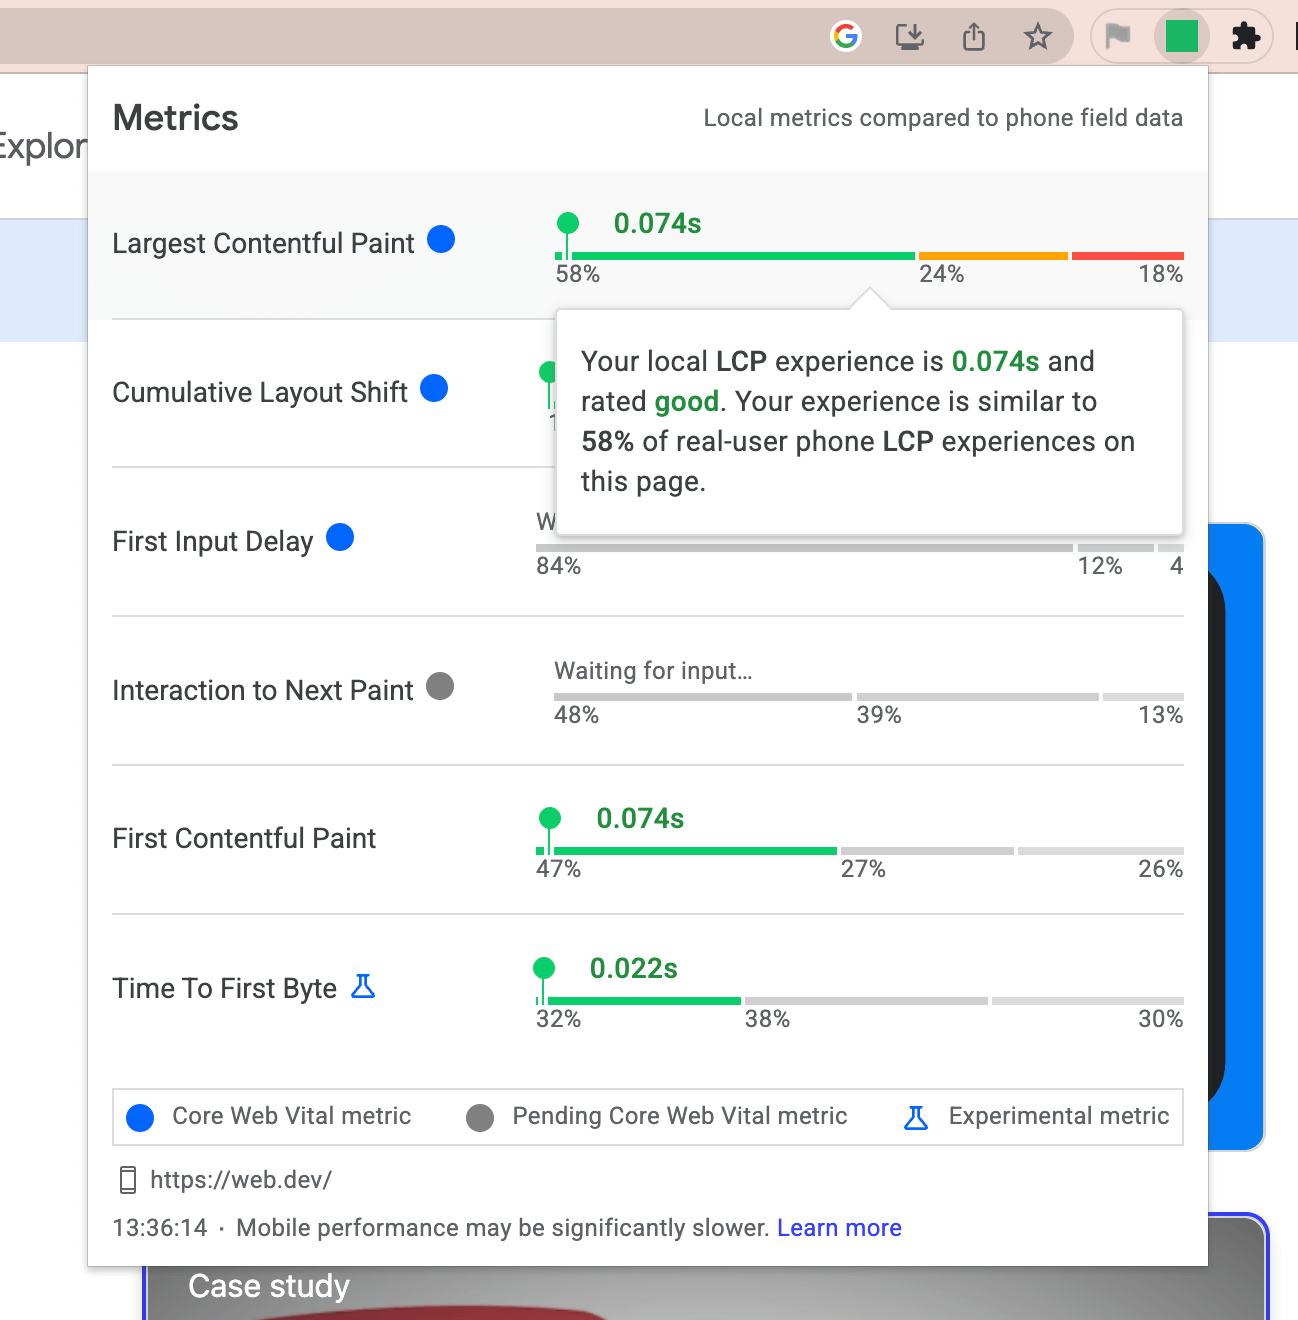
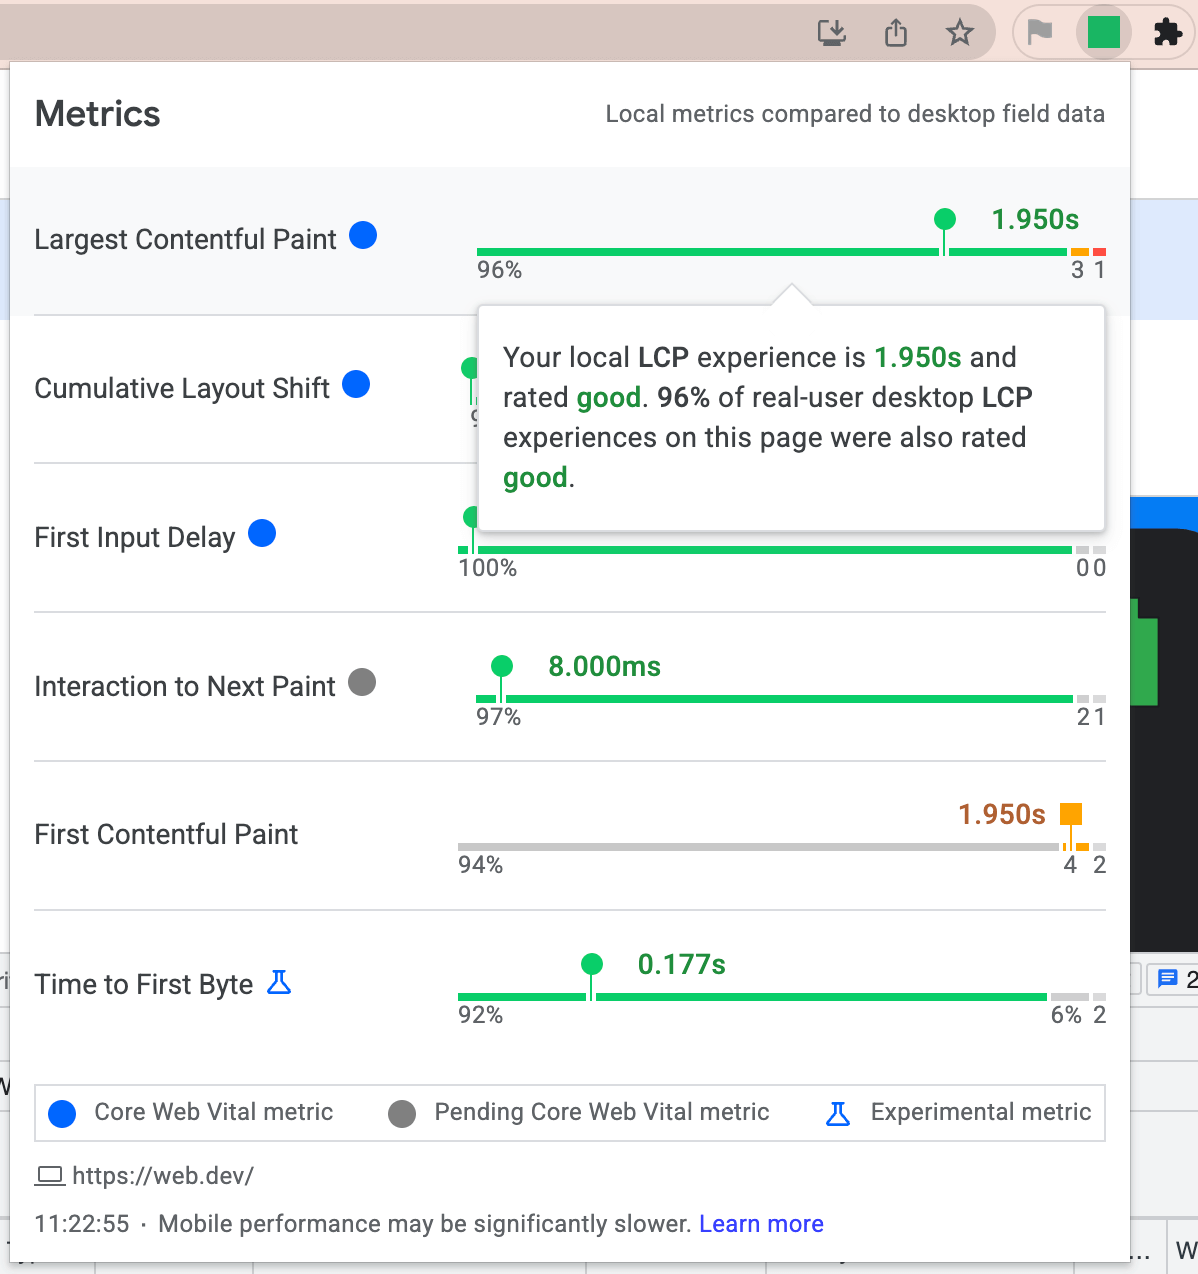
Improved CrUX Tooltip message (#134)
* Improved CrUX Tooltip message

* Retake screenshots

diff --git a/src/browser_action/popup.js b/src/browser_action/popup.js
@@ -132,7 +132,7 @@ class Popup {
       const assessmentIndex = metric.getAssessmentIndex();
       const density = metric.getDensity(assessmentIndex, 0);
       const scope = CrUX.isOriginFallback(fieldData) ? 'origin' : 'page';
-      text += ` Your experience is similar to <strong>${density}</strong> of <span class="nowrap">real-user</span> ${formFactor.toLowerCase()} <strong>${abbr}</strong> experiences on this ${scope}.`
+      text += ` <strong>${density}</strong> of <span class="nowrap">real-user</span> ${formFactor.toLowerCase()} <strong>${abbr}</strong> experiences on this ${scope} were also rated <strong class="hovercard-local">${assessment}</strong>.`
     }
 
     hovercard.innerHTML = text;
